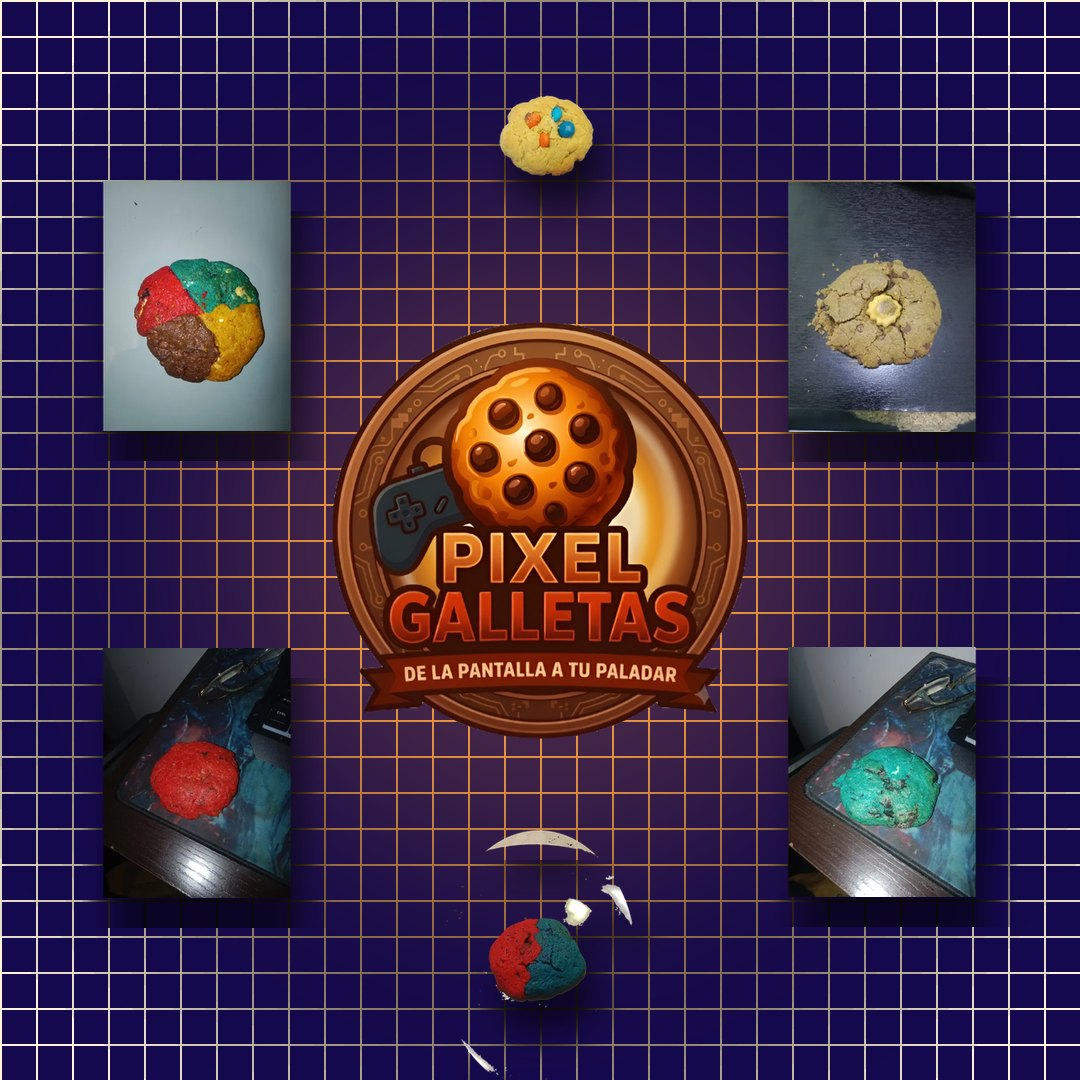
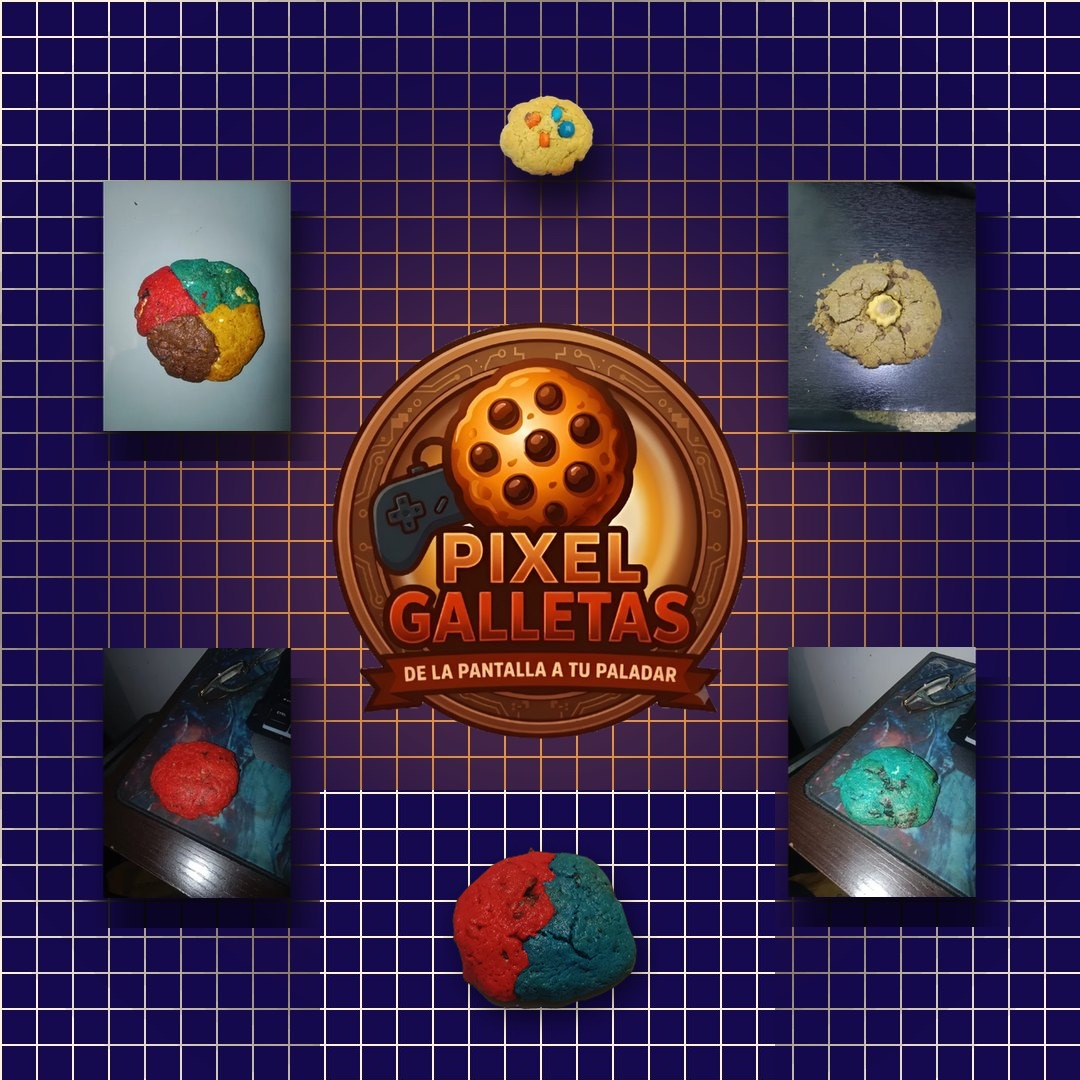
Pone la sala de juegos en claro y recompone la galleta Red Monster del contacto
El panel del minijuego seguía siendo una losa azul y sus casillas salían naranjas porque la regla genérica de botones se las pintaba encima; ahora el panel es blanco con borde de tinta y cada casilla recupera su crema con marco. En el mosaico de contacto, la galleta Red Monster llevaba una foto con fondo azul cortado y restos blancos pegada bajo el logo: se limpió esa zona con la misma rejilla y se colocó la galleta recortada del catálogo con una sombra suave.

🤖 Generated with Codebuff

Changed region(s): [[0.3056, 0.7333, 0.7028, 1.0]]

diff --git a/public/css/tema-claro.css b/public/css/tema-claro.css
@@ -148,6 +148,26 @@
 :root[data-tema="claro"] .caja-precio { text-shadow: none; }
 :root[data-tema="claro"] .paso-num { text-shadow: 2px 2px 0 rgba(42, 26, 74, .16); }
 
+/* --- Sala de juegos: el panel deja de ser una pantalla azul oscura y las
+   casillas recuperan su color propio (la regla genérica de botones las pintaba
+   de naranja). --- */
+:root[data-tema="claro"] .juego {
+  background: #FFFFFF;
+  border: 2px solid #2A1A4A;
+  box-shadow: 6px 6px 0 rgba(42, 26, 74, .16);
+}
+:root[data-tema="claro"] button.hueco {
+  background: #FBEEDA;
+  box-shadow: inset 0 0 0 2px rgba(42, 26, 74, .25);
+}
+:root[data-tema="claro"] .juego-arena button.hueco:hover:not(:disabled) { background: #F3DFC0; }
+:root[data-tema="claro"] button.hueco.listo {
+  background: #FFF1DC;
+  box-shadow: inset 0 0 0 3px #F5902F;
+}
+:root[data-tema="claro"] .juego-dato-record b,
+:root[data-tema="claro"] .juego-rango b { color: #B45309; }
+
 /* --- Páginas 8-bit: títulos en tinta y campos blancos con borde de tinta.
    Antes el h1 quedaba naranja sobre crema y los campos casi sin borde. --- */
 :root[data-tema="claro"] body.pagina-8bit h1,
